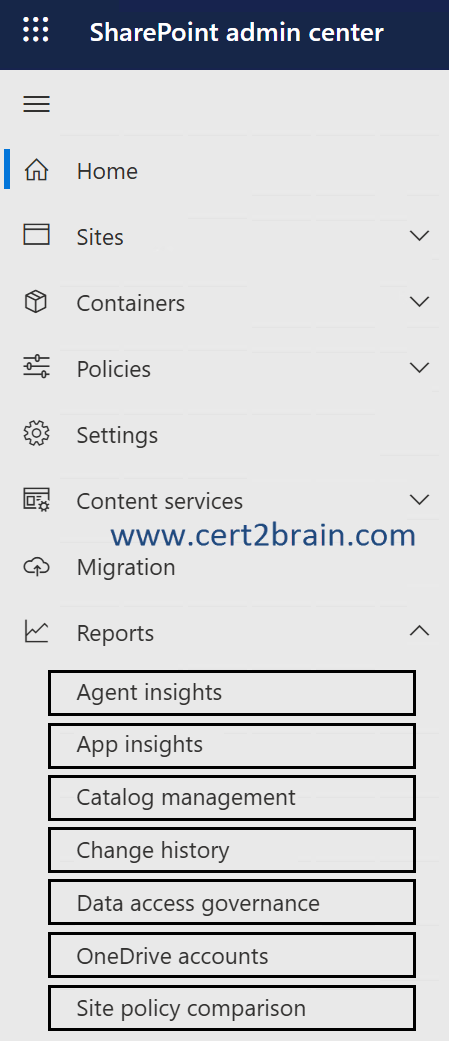
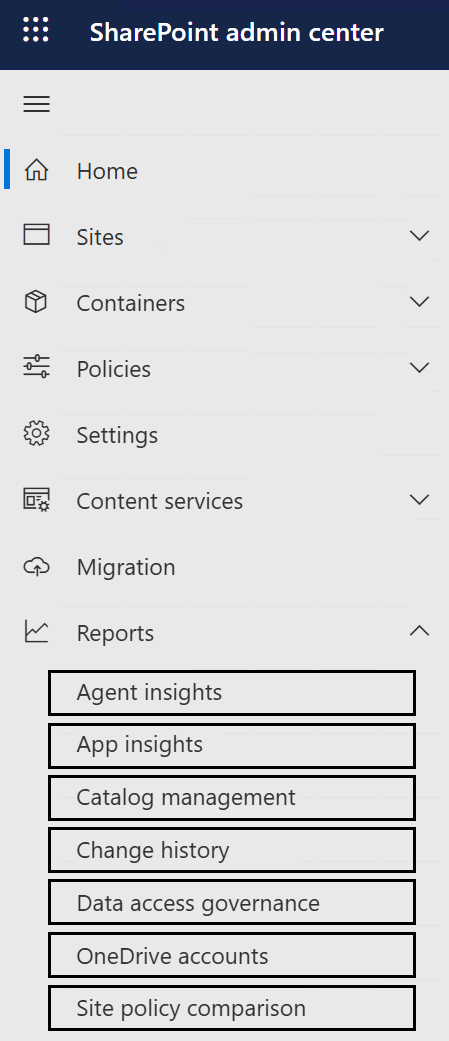
Redact cert2brain.com watermark burned into the Q20/Q21/Q34 reference images. SectionMenu: only the first locked section shows the Premium badge/CTA — sections further out show a neutral 'unlocks after the previous part' hint instead of repeating Premium, so it no longer looks like every section nee

Changed region(s): [[0.4365, 0.4918, 0.9354, 0.5226], [0.2494, 0.4918, 0.4053, 0.5226]]

diff --git a/components/certifications/practice/SectionMenu.tsx b/components/certifications/practice/SectionMenu.tsx
@@ -127,12 +127,27 @@ export default function SectionMenu({
 
       {menuOpen && (
         <div className="absolute left-0 top-full z-30 mt-2 max-h-[70vh] w-full min-w-[280px] overflow-y-auto rounded-xl border border-border-soft bg-panel p-2 shadow-lg sm:w-80">
-          {Array.from({ length: sectionCount }).map((_, s) => {
-            const [start, end] = sectionRange(s);
-            const unlocked = sectionUnlocked(s);
-            const completed = unlocked && sectionCompleted(s);
-            const isCurrent = s === currentSection;
-            const premiumLocked = !unlocked && isPro === false;
+          {(() => {
+            // Only the very next locked section (the actual gate the
+            // person needs to act on) shows the Premium badge/CTA — every
+            // section past that is locked for the ordinary reason (the
+            // one before it isn't done yet), so repeating "Premium" on
+            // all of them would wrongly suggest a separate purchase is
+            // needed per section instead of one upgrade unlocking the
+            // normal progressive 90% flow from there on.
+            let firstLockedIndex = -1;
+            for (let i = 0; i < sectionCount; i++) {
+              if (!sectionUnlocked(i)) {
+                firstLockedIndex = i;
+                break;
+              }
+            }
+            return Array.from({ length: sectionCount }).map((_, s) => {
+              const [start, end] = sectionRange(s);
+              const unlocked = sectionUnlocked(s);
+              const completed = unlocked && sectionCompleted(s);
+              const isCurrent = s === currentSection;
+              const premiumLocked = !unlocked && isPro === false && s === firstLockedIndex;
 
             return (
               <div key={s}>
@@ -199,7 +214,8 @@ export default function SectionMenu({
                 )}
               </div>
             );
-          })}
+            });
+          })()}
         </div>
       )}
     </div>
